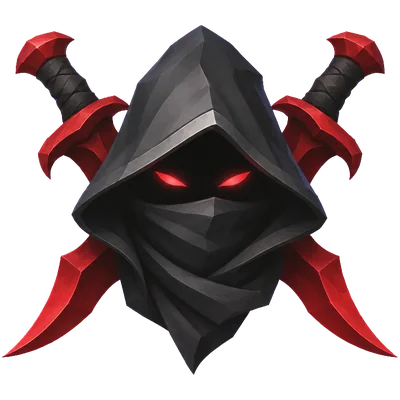
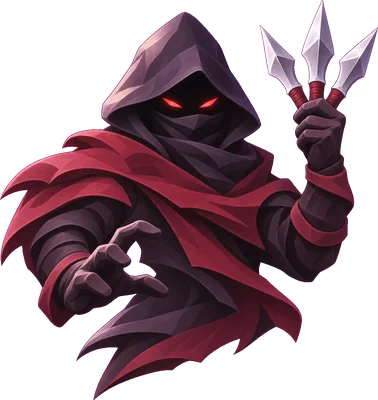
Seven leaders wear their own figures (Martin's picks, 2026-11-25); the Mana Eater is Hungry (Martin: "might as well give the unit Hungry")
Claude-Session: https://claude.ai/code/session_01Ehedr43C3DbgLJGv6CfPpd

diff --git a/animal_kingdom/web/static/hex/figs.js b/animal_kingdom/web/static/hex/figs.js
@@ -1,3 +1,3 @@
 // The stand-in figure of each collectible card on the hex token, its width and height in px (design sandbox
 // screen/kit/hextoken/export.py writes this file). A card missing here falls back to its painting's crop.
-export const FIGS = {"albatross":[400,400],"assassin_legend":[400,400],"bird_egg":[400,570],"cantrip_2":[400,400],"cantrip_3":[400,400],"cantrip_4":[400,400],"death_draw_1":[400,400],"djinn_ally":[400,451],"djinn_burn":[400,400],"djinn_combo":[400,455],"djinn_hand":[400,467],"djinn_region":[400,451],"double_raid_2":[400,400],"double_raid_4":[400,400],"duplicating_spore":[400,400],"elf_legend":[400,400],"flight_1":[400,400],"flight_10":[400,400],"flight_2":[400,400],"flight_3":[400,400],"flight_4":[400,400],"flight_5":[400,400],"flight_6":[400,400],"giant_hunter":[400,400],"golden_egg":[400,493],"hungry_1":[400,400],"hungry_2":[400,400],"hungry_3":[400,400],"hungry_4":[400,400],"hungry_5":[400,400],"hunter_2":[400,400],"hunter_3":[400,400],"hunter_4":[400,400],"hunter_5":[400,400],"hunter_6":[400,400],"hunter_7":[400,400],"kill_draw_2":[400,400],"mama_spore":[400,400],"mana_blob":[400,400],"plunderer":[400,400],"porcupine":[400,339],"raid_draw_5":[400,400],"raider_legend":[400,400],"rhino":[400,400],"sage_legend":[400,400],"scorch":[400,400],"scout_3":[400,400],"sky_maw_2":[400,400],"sky_maw_4":[400,400],"spikes_1":[400,400],"spikes_2":[400,400],"spikes_3":[400,400],"spikes_5":[400,400],"spore":[400,400],"warlord_legend":[400,342],"wisp_1":[400,416],"wisp_2":[400,416],"wisp_3":[400,416],"wisp_4":[400,416],"wisp_5":[400,416],"wisp_6":[400,416],"young_albatross":[400,400],"young_rhino":[400,400]};
+export const FIGS = {"albatross":[400,400],"angel_legend":[387,400],"assassin_legend":[378,400],"bird_egg":[400,570],"cantrip_2":[400,400],"cantrip_3":[400,400],"cantrip_4":[400,400],"death_draw_1":[400,400],"djinn_ally":[400,451],"djinn_burn":[400,400],"djinn_combo":[400,455],"djinn_hand":[400,467],"djinn_region":[400,451],"double_raid_2":[400,400],"double_raid_4":[400,400],"duplicating_spore":[400,400],"elf_legend":[343,400],"flight_1":[400,400],"flight_10":[400,400],"flight_2":[400,400],"flight_3":[400,400],"flight_4":[400,400],"flight_5":[400,400],"flight_6":[400,400],"giant_hunter":[400,400],"golden_egg":[400,493],"hungry_1":[400,400],"hungry_2":[400,400],"hungry_3":[400,400],"hungry_4":[400,400],"hungry_5":[400,400],"hunter_2":[400,400],"hunter_3":[400,400],"hunter_4":[400,400],"hunter_5":[400,400],"hunter_6":[400,400],"hunter_7":[400,400],"kill_draw_2":[400,400],"mama_spore":[400,400],"mana_blob":[400,400],"mana_eater_legend":[397,400],"plunderer":[400,400],"porcupine":[400,339],"pyromancer_legend":[305,400],"raid_draw_5":[400,400],"raider_legend":[315,400],"reno_legend":[400,372],"rhino":[400,400],"sage_legend":[400,400],"scorch":[400,400],"scout_3":[400,400],"sky_maw_2":[400,400],"sky_maw_4":[400,400],"spikes_1":[400,400],"spikes_2":[400,400],"spikes_3":[400,400],"spikes_5":[400,400],"spore":[400,400],"warlord_legend":[400,342],"wisp_1":[400,416],"wisp_2":[400,416],"wisp_3":[400,416],"wisp_4":[400,416],"wisp_5":[400,416],"wisp_6":[400,416],"young_albatross":[400,400],"young_rhino":[400,400]};

diff --git a/animal_kingdom/tests/test_rules.py b/animal_kingdom/tests/test_rules.py
@@ -765,8 +765,10 @@ def test_the_mana_eater_starts_with_no_cards_and_three_crystals_banks_mana_and_e
     rules.apply_action(s, PassAction())
     assert rules.mana_left(s, "A") == 12 and s.crystals["A"] == 10
     s = state(turn=19, hands={"A": [MANA_EATER]}, leaders={"A": MANA_EATER}, food={"A": 10, "B": 15})
-    rules.apply_action(s, PlaceAction(MANA_EATER, ("cr", "1,1")))      # 10 crystals destroyed: 10 food
-    assert s.crystals["A"] == 0 and s.food["A"] == 20 and rules.mana_left(s, "A") == 0
+    assert CARDS[MANA_EATER].keywords == {"Hungry"} and places(s, MANA_EATER) == set()
+    put(s, "1,1", "wisp_1", "B")                                       # Hungry: he lands on an enemy he beats
+    rules.apply_action(s, PlaceAction(MANA_EATER, ("cr", "1,1")))      # 10 crystals destroyed: 10 food, and his prey's
+    assert s.crystals["A"] == 0 and s.food["A"] == 20 + CFG.hungry_food and rules.mana_left(s, "A") == 0
     rules.apply_action(s, PassAction()); rules.apply_action(s, PassAction())
     assert rules.mana_left(s, "A") == 1                                # and they grow back from one
     assert GameState.from_dict(s.to_dict()).crystals == s.crystals

diff --git a/engine_rs/src/data.rs b/engine_rs/src/data.rs
@@ -481,7 +481,7 @@ config! {
     mana_eater_start_crystals: i32 = 3,   // the Mana Eater: "Start the game with 0 cards but 3 empty mana crystals."
     mana_eater_power_cost: i32 = 1,
     mana_eater_power_mana: i32 = 2,       // his power: "Next turn, gain 2 more mana."
-    mana_eater_food_per_crystal: i32 = 1, // his card: "Roar: destroy all your mana crystals. Gain 1 food for each."
+    mana_eater_food_per_crystal: i32 = 1, // his card: "Hungry. Roar: destroy all your mana crystals. Gain 1 food for each."
     mama_spores: i32 = 2,                 // Mama Spore: "Roar: put 2 Spores into your hand." (Martin, 2026-11-21)
     bird_egg_flights: i32 = 2,            // the Bird Egg: "Fall: add two [Flight 1] to your hand." (Martin, 2026-11-22)
     golden_egg_draws: i32 = 1,            // the Golden Egg: "When you draw this, draw a card." (Martin, 2026-11-22)

diff --git a/engine_rs/src/cards.rs b/engine_rs/src/cards.rs
@@ -90,7 +90,7 @@ pub enum Roar {
     ScoutTwice,
     /// "Roar: upgrade all Fireballs in your hand. They keep their cost." (the Pyromancer's card)
     UpgradeFireballs,
-    /// "Roar: destroy all your mana crystals. Gain 1 food for each." (the Mana Eater's card)
+    /// "Hungry. Roar: destroy all your mana crystals. Gain 1 food for each." (the Mana Eater's card)
     EatCrystals,
     /// "Roar: double your food." (Mage, Transformed)
     DoubleFood,

diff --git a/docs/STATUS.md b/docs/STATUS.md
@@ -24,7 +24,7 @@ What the game is for, why mana, and Martin's words on the rules' shape and the b
 
 ## The cards
 
-65 in `data/cards.json`, all collectible but the Spore token (Flight is 1 to 6 mana, strength equal to its cost), all placeholders. Most are Martin's paper cards of 2026-11-21: the Wisps (vanilla, strength twice the cost: 1 mana for 2 up to 6 for 12; Martin removed the 0-mana and the 7 to 10-mana Wisps and the 8-mana Spikes, 2026-11-21), ladders of Flight, Hungry and Spikes, draw cards (Cantrips with "Roar: draw a card.", one "Death: draw a card.", one "Roar: if this removes an enemy, draw a card.", and Scout 2 (2 mana, 1), "Roar: Scout a card.", Scout being the old game's look at the top 3, take one, shuffle the rest back), and the Spores (Martin, 2026-11-21): Duplicating Spore, "Roar: place a Spore on an adjacent tile." (any tile a card could be placed on) and Mama Spore, "Roar: put 2 Spores into your hand.", Duplicating Spore 1 mana 1 and Mama Spore 2 mana 2; the Spore itself is a 1-mana 1 token in no deck (status reserve); the Rhino (8 mana, 10), "Roar: remove all adjacent enemies with strength 5 or less.", and the Albatross (8 mana, 4, Flight), "... with strength 4 or less.", and their young, the Young Rhino (4 mana, 6), "... with strength 3 or less.", and Young Albatross (4 mana, 2, Flight), "... with strength 2 or less." (Martin, 2026-11-21: animals of another planet, despite the rule against Earth animals) two "Its raids destroy double food." (2 and 4 mana; Martin has no term for raiding yet) and one "Flight. After it raids, draw a card." (5 mana, 5). The Mana Blob (2 mana, 2), "Roar: gain 2 mana.", this turn's, past the cap too (Martin, 2026-11-21). The Djinn and Hunters are the earlier ladders: each Hunter N (1 to 6) costs N, has strength N and its Roar gives an adjacent enemy -N strength, for good (Martin, 2026-11-21; their ids are hunter_2 to hunter_7, one above their numbers); the Big Game Hunter (5 mana, strength 2) removes an adjacent enemy. Poison, Armor and Stealth are in the rules but on no card. Nine leaders, Martin's list of 2026-11-25 (his table, then his answers in the session), each a legendary card with a passive and a power, shown side by side right of the board (the passive the leader's token, the power a tile holding its price): Nightmare (raider_legend, 2 mana, 2, "Double strength when raiding."; "Nightmare starts on the bottom of your deck. Dusk: Gain +1 strength.", wherever he is; [1] "Swap Nightmare with the card above.", which reads and works as "Draw Nightmare" while he is on top), Mother Nature (elf_legend, 5, 5, "Adjacent regions produce double food."; "Your regions produce 1 more food.", the 1 added before the doubling; [2] "Gain 1 food for each region you control."), the Angel Warrior (8, 8, "Flight. Dawn: give all connected allies +1 strength.", connected to the Angel; "After your ally removes an enemy, give it +1 strength."; [1] "Give an ally +2 strength."), the Rogue (assassin_legend, 3, 3, "Roar: If you played 3 or more cards this turn, draw 3 cards."; "Every third card you play costs 1 less."; [1] "Add a 1-mana Golem to your hand. Give it +1 strength for each card played this turn."), the Mage (sage_legend, 4, 6, "If your deck is empty, transform into Mage, Transformed.", wherever it is and without a Roar on the board, into an 8-mana 12 with "Roar: double your food."; "Fatigue gains you food instead of losing it."; [3] "Draw a card."), Reno (7, 7, "Roar: Scout 2 cards."; "If your deck has no duplicates, your "draw a card" effects Scout instead.", the turn's free card included, checked against the deck as it is; [3] "Draw a card."), the Pyromancer (3, 3, "Roar: upgrade all Fireballs in your hand. They keep their cost."; "Upgrade your hero power after 3 uses."; [2] "Add a Fireball to your hand.", Baby, then Young, Adult and Elder Fireball, the Flight 1, 3, 6 and 10 renamed), Gorrak One-Eye (7, 7, as before; "Your Hungry allies cost 1 more, but gain 3 strength."; [2] "Summon Delicious Food on a random empty crossroad.", a 1-strength piece of his with "Fall: gain 1 food.") and the Mana Eater (10, 14, "Roar: destroy all your mana crystals. Gain 1 food for each."; "Start the game with 0 cards but 3 empty mana crystals.", so 4 mana on his first turn; [1] "Next turn, gain 2 more mana."). Open, an agent's calls Martin hasn't seen: the Golem's numbers (1 mana, base 1, its bonus fixed when made), Reno's draw on an empty deck being a draw (fatigue) and not an empty Scout, and an ally's removal counting for the Angel when it covers, removes by an effect or brings an enemy to 0. The new cards have no figures yet. The four Djinn are strength 10 and 12 mana, above the mana cap, and cost 1 less for each card in your hand or ally, the Region Djinn 2 less for each region you control and the Combo Djinn 2 less for each card you played this turn (Martin, 2026-11-21, who also dropped the Shades; a strength that is a count stays in the engine, on no card). Their art is one placeholder sheet painted in a single prompt, infrared to black hole (`design/cards/wisp_sheet.png`), cut into the stand-in figures; the new cards reuse the old ladders' figures.
+65 in `data/cards.json`, all collectible but the Spore token (Flight is 1 to 6 mana, strength equal to its cost), all placeholders. Most are Martin's paper cards of 2026-11-21: the Wisps (vanilla, strength twice the cost: 1 mana for 2 up to 6 for 12; Martin removed the 0-mana and the 7 to 10-mana Wisps and the 8-mana Spikes, 2026-11-21), ladders of Flight, Hungry and Spikes, draw cards (Cantrips with "Roar: draw a card.", one "Death: draw a card.", one "Roar: if this removes an enemy, draw a card.", and Scout 2 (2 mana, 1), "Roar: Scout a card.", Scout being the old game's look at the top 3, take one, shuffle the rest back), and the Spores (Martin, 2026-11-21): Duplicating Spore, "Roar: place a Spore on an adjacent tile." (any tile a card could be placed on) and Mama Spore, "Roar: put 2 Spores into your hand.", Duplicating Spore 1 mana 1 and Mama Spore 2 mana 2; the Spore itself is a 1-mana 1 token in no deck (status reserve); the Rhino (8 mana, 10), "Roar: remove all adjacent enemies with strength 5 or less.", and the Albatross (8 mana, 4, Flight), "... with strength 4 or less.", and their young, the Young Rhino (4 mana, 6), "... with strength 3 or less.", and Young Albatross (4 mana, 2, Flight), "... with strength 2 or less." (Martin, 2026-11-21: animals of another planet, despite the rule against Earth animals) two "Its raids destroy double food." (2 and 4 mana; Martin has no term for raiding yet) and one "Flight. After it raids, draw a card." (5 mana, 5). The Mana Blob (2 mana, 2), "Roar: gain 2 mana.", this turn's, past the cap too (Martin, 2026-11-21). The Djinn and Hunters are the earlier ladders: each Hunter N (1 to 6) costs N, has strength N and its Roar gives an adjacent enemy -N strength, for good (Martin, 2026-11-21; their ids are hunter_2 to hunter_7, one above their numbers); the Big Game Hunter (5 mana, strength 2) removes an adjacent enemy. Poison, Armor and Stealth are in the rules but on no card. Nine leaders, Martin's list of 2026-11-25 (his table, then his answers in the session), each a legendary card with a passive and a power, shown side by side right of the board (the passive the leader's token, the power a tile holding its price): Nightmare (raider_legend, 2 mana, 2, "Double strength when raiding."; "Nightmare starts on the bottom of your deck. Dusk: Gain +1 strength.", wherever he is; [1] "Swap Nightmare with the card above.", which reads and works as "Draw Nightmare" while he is on top), Mother Nature (elf_legend, 5, 5, "Adjacent regions produce double food."; "Your regions produce 1 more food.", the 1 added before the doubling; [2] "Gain 1 food for each region you control."), the Angel Warrior (8, 8, "Flight. Dawn: give all connected allies +1 strength.", connected to the Angel; "After your ally removes an enemy, give it +1 strength."; [1] "Give an ally +2 strength."), the Rogue (assassin_legend, 3, 3, "Roar: If you played 3 or more cards this turn, draw 3 cards."; "Every third card you play costs 1 less."; [1] "Add a 1-mana Golem to your hand. Give it +1 strength for each card played this turn."), the Mage (sage_legend, 4, 6, "If your deck is empty, transform into Mage, Transformed.", wherever it is and without a Roar on the board, into an 8-mana 12 with "Roar: double your food."; "Fatigue gains you food instead of losing it."; [3] "Draw a card."), Reno (7, 7, "Roar: Scout 2 cards."; "If your deck has no duplicates, your "draw a card" effects Scout instead.", the turn's free card included, checked against the deck as it is; [3] "Draw a card."), the Pyromancer (3, 3, "Roar: upgrade all Fireballs in your hand. They keep their cost."; "Upgrade your hero power after 3 uses."; [2] "Add a Fireball to your hand.", Baby, then Young, Adult and Elder Fireball, the Flight 1, 3, 6 and 10 renamed), Gorrak One-Eye (7, 7, as before; "Your Hungry allies cost 1 more, but gain 3 strength."; [2] "Summon Delicious Food on a random empty crossroad.", a 1-strength piece of his with "Fall: gain 1 food.") and the Mana Eater (10, 14, "Hungry. Roar: destroy all your mana crystals. Gain 1 food for each."; "Start the game with 0 cards but 3 empty mana crystals.", so 4 mana on his first turn; [1] "Next turn, gain 2 more mana."). Open, an agent's calls Martin hasn't seen: the Golem's numbers (1 mana, base 1, its bonus fixed when made), Reno's draw on an empty deck being a draw (fatigue) and not an empty Scout, and an ally's removal counting for the Angel when it covers, removes by an effect or brings an enemy to 0. Seven of the nine leaders wear a figure of their own since 2026-11-25 (the Mage and Gorrak kept theirs); the other new cards have none yet. The four Djinn are strength 10 and 12 mana, above the mana cap, and cost 1 less for each card in your hand or ally, the Region Djinn 2 less for each region you control and the Combo Djinn 2 less for each card you played this turn (Martin, 2026-11-21, who also dropped the Shades; a strength that is a count stays in the engine, on no card). Their art is one placeholder sheet painted in a single prompt, infrared to black hole (`design/cards/wisp_sheet.png`), cut into the stand-in figures; the new cards reuse the old ladders' figures.
 
 
 ## What exists
